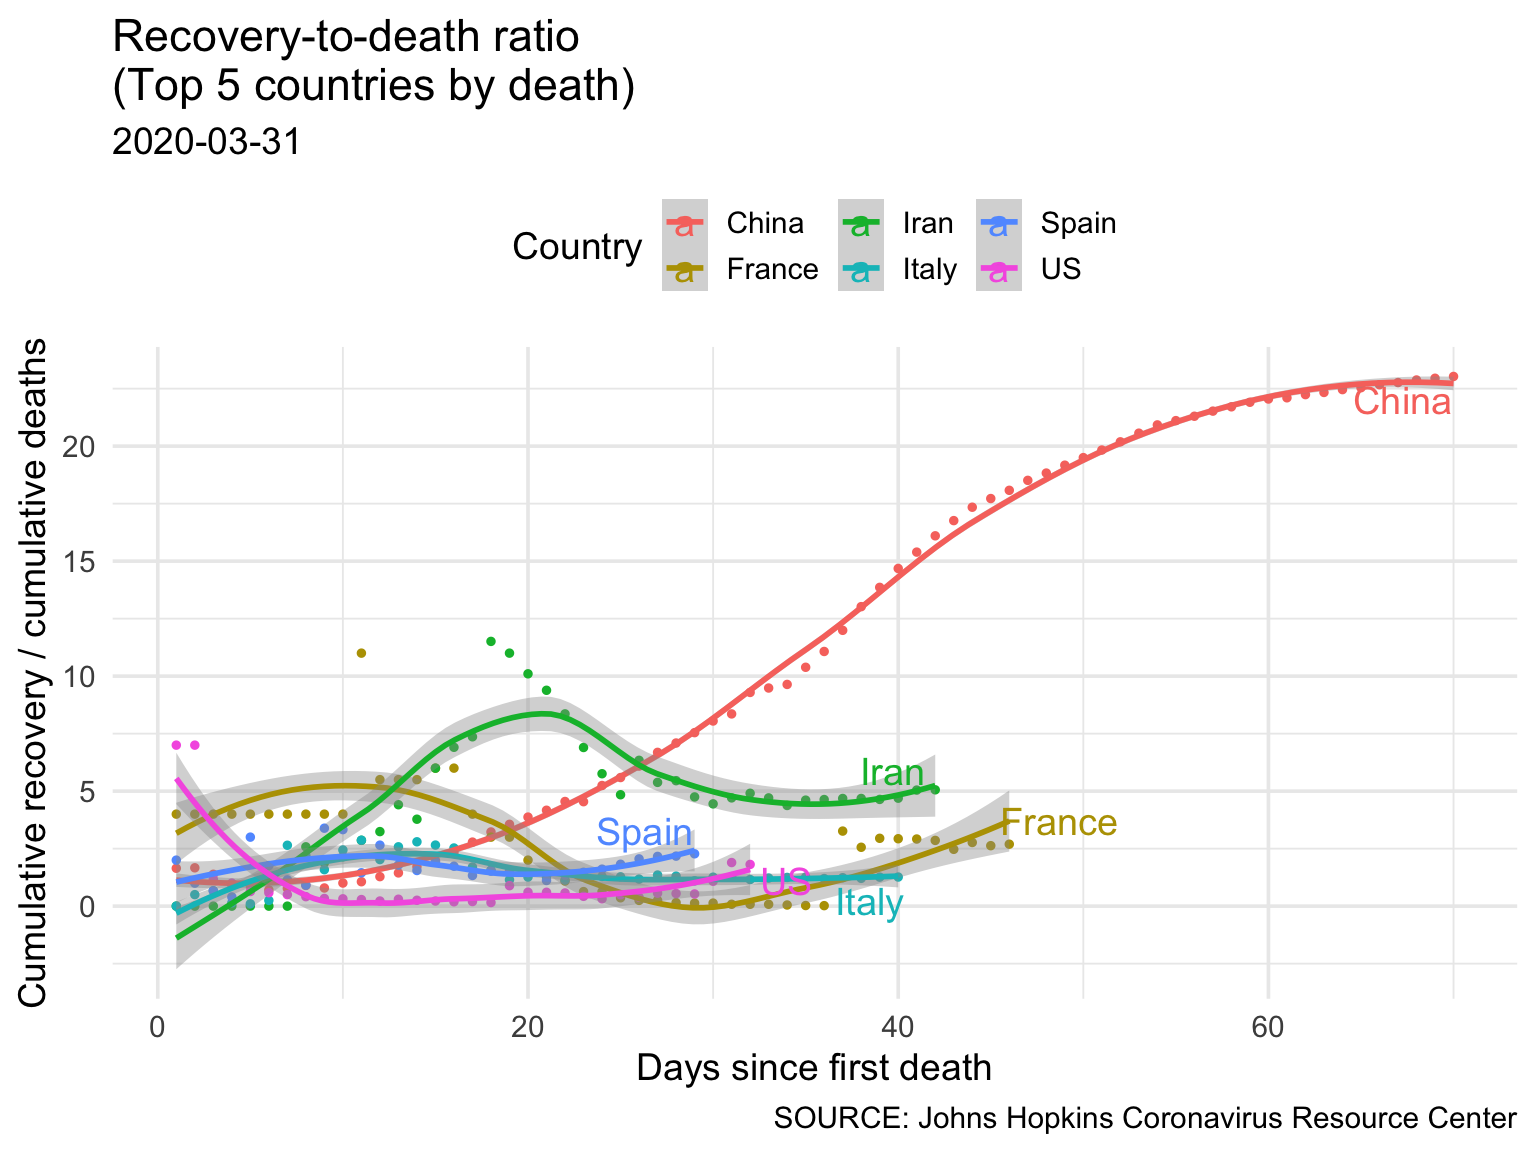
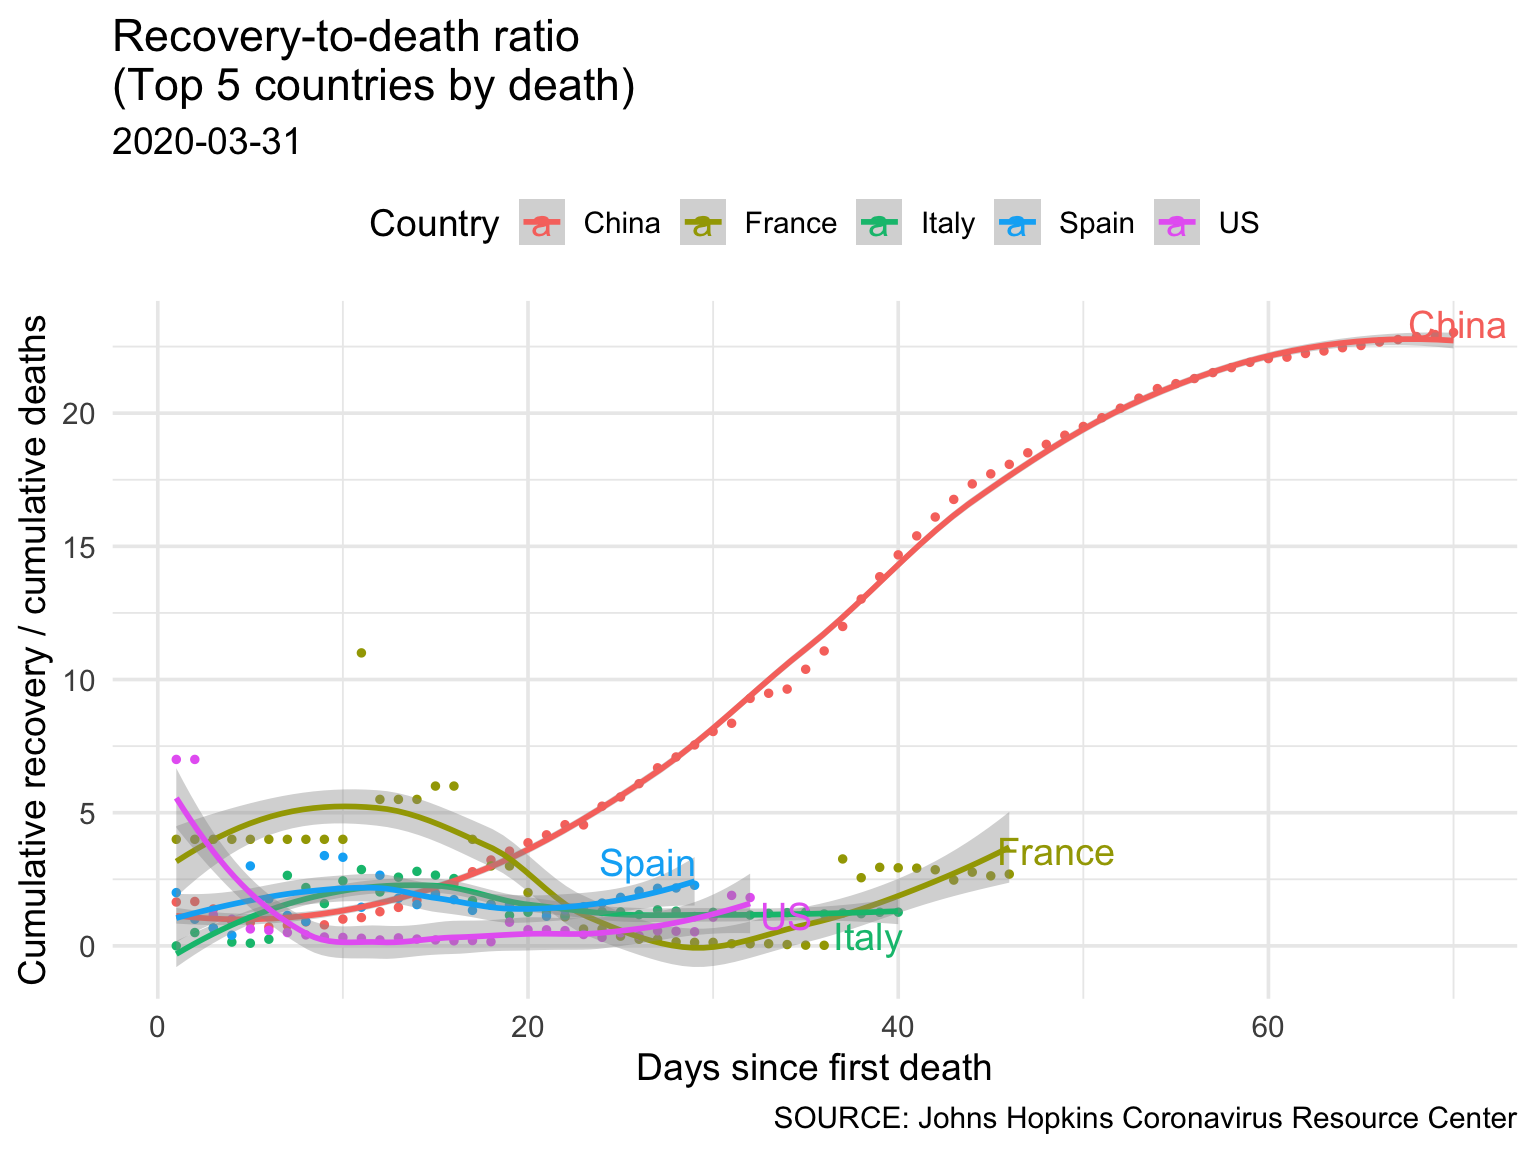
+ recv-to-death south-asia, middle east

Changed region(s): [[0.0938, 0.25, 1.0, 0.8438], [0.25, 0.1562, 0.8125, 0.25], [0.0, 0.2812, 0.0625, 0.875]]

diff --git a/_book/world.html b/_book/world.html
@@ -93,6 +93,8 @@
 <li class="chapter" data-level="1.2" data-path="world.html"><a href="world.html#deaths"><i class="fa fa-check"></i><b>1.2</b> Deaths</a></li>
 <li class="chapter" data-level="1.3" data-path="world.html"><a href="world.html#recovery-death-ratio"><i class="fa fa-check"></i><b>1.3</b> Recovery-to-death ratio</a><ul>
 <li class="chapter" data-level="1.3.1" data-path="world.html"><a href="world.html#recovery-to-death-ratio-including-china"><i class="fa fa-check"></i><b>1.3.1</b> Recovery-to-death ratio (including China)</a></li>
+<li class="chapter" data-level="1.3.2" data-path="world.html"><a href="world.html#recovery-to-death-ratio-south-asia"><i class="fa fa-check"></i><b>1.3.2</b> Recovery-to-death ratio (South Asia)</a></li>
+<li class="chapter" data-level="1.3.3" data-path="world.html"><a href="world.html#recovery-to-death-ratio-middle-east"><i class="fa fa-check"></i><b>1.3.3</b> Recovery-to-death ratio (Middle East)</a></li>
 </ul></li>
 <li class="chapter" data-level="1.4" data-path="world.html"><a href="world.html#perc-change-top6"><i class="fa fa-check"></i><b>1.4</b> 3-day % changes</a></li>
 </ul></li>
@@ -134,10 +136,10 @@
 <h2><span class="header-section-number">1.1</span> Confirmed Cases</h2>
 <p><strong>Report last updated:</strong> 2020-04-01</p>
 <p><strong>Data last refreshed:</strong> : 2020-03-31</p>
-<p><img src="covid19_files/figure-html/unnamed-chunk-2-1.png" width="768" /></p>
+<p><img src="covid19_files/figure-html/unnamed-chunk-3-1.png" width="768" /></p>
 <table class="table" style="margin-left: auto; margin-right: auto;">
 <caption>
-<span id="tab:unnamed-chunk-3">Table 1.1: </span>Top 10 countries by confirmed cases as of 2020-03-31
+<span id="tab:unnamed-chunk-4">Table 1.1: </span>Top 10 countries by confirmed cases as of 2020-03-31
 </caption>
 <thead>
 <tr>
@@ -243,10 +245,10 @@ Bangladesh
 </div>
 <div id="deaths" class="section level2">
 <h2><span class="header-section-number">1.2</span> Deaths</h2>
-<p><img src="covid19_files/figure-html/unnamed-chunk-5-1.png" width="768" /></p>
+<p><img src="covid19_files/figure-html/unnamed-chunk-6-1.png" width="768" /></p>
 <table class="table" style="margin-left: auto; margin-right: auto;">
 <caption>
-<span id="tab:unnamed-chunk-6">Table 1.2: </span>Top 10 countries by total deathsas of 2020-03-31
+<span id="tab:unnamed-chunk-7">Table 1.2: </span>Top 10 countries by total deathsas of 2020-03-31
 </caption>
 <thead>
 <tr>
@@ -352,20 +354,28 @@ Bangladesh
 </div>
 <div id="recovery-death-ratio" class="section level2">
 <h2><span class="header-section-number">1.3</span> Recovery-to-death ratio</h2>
-<p><img src="covid19_files/figure-html/recovery-to-death-ratio-by-country-1.png" width="768" /></p>
-<div id="recovery-to-death-ratio-including-china" class="section level3">
-<h3><span class="header-section-number">1.3.1</span> Recovery-to-death ratio (including China)</h3>
-<p><img src="covid19_files/figure-html/recovery-to-death-ratio-by-country-china-1.png" width="768" /></p>
 <p>The recovery to deaths ratio (RDR) is calculated as</p>
 <p><span class="math display">\[
 RDR = \frac{\# Cumulative \,\, daily \,\, recovered}{\# Cumulative \,\, daily \,\, deaths}
 \]</span></p>
 <p><strong>How to interpret</strong>: The ratio of cumulative number of patients recovered divided by the cumulative number of deaths over time can tell the proportion of people recovering compared to dying. An upward trend may indicate more recovery than deaths.</p>
+<p><img src="covid19_files/figure-html/recovery-to-death-ratio-by-country-1.png" width="768" /></p>
+<div id="recovery-to-death-ratio-including-china" class="section level3">
+<h3><span class="header-section-number">1.3.1</span> Recovery-to-death ratio (including China)</h3>
+<p><img src="covid19_files/figure-html/recovery-to-death-ratio-by-country-china-1.png" width="768" /></p>
+</div>
+<div id="recovery-to-death-ratio-south-asia" class="section level3">
+<h3><span class="header-section-number">1.3.2</span> Recovery-to-death ratio (South Asia)</h3>
+<p><img src="covid19_files/figure-html/recovery-to-death-ratio-south-asia-1.png" width="768" /></p>
+</div>
+<div id="recovery-to-death-ratio-middle-east" class="section level3">
+<h3><span class="header-section-number">1.3.3</span> Recovery-to-death ratio (Middle East)</h3>
+<p><img src="covid19_files/figure-html/recovery-to-death-ratio-middle-east-1.png" width="768" /></p>
 </div>
 </div>
 <div id="perc-change-top6" class="section level2">
 <h2><span class="header-section-number">1.4</span> 3-day % changes</h2>
-<p><img src="covid19_files/figure-html/unnamed-chunk-9-1.png" width="768" /></p>
+<p><img src="covid19_files/figure-html/unnamed-chunk-10-1.png" width="768" /></p>
 <p>The percent change is calculated as</p>
 <p><span class="math display">\[
 PC = \frac{New - Original}{Original} * 100

diff --git a/_book/bangladesh.html b/_book/bangladesh.html
@@ -91,7 +91,11 @@
 <li class="chapter" data-level="1" data-path="world.html"><a href="world.html"><i class="fa fa-check"></i><b>1</b> World</a><ul>
 <li class="chapter" data-level="1.1" data-path="world.html"><a href="world.html#confirmed-cases"><i class="fa fa-check"></i><b>1.1</b> Confirmed Cases</a></li>
 <li class="chapter" data-level="1.2" data-path="world.html"><a href="world.html#deaths"><i class="fa fa-check"></i><b>1.2</b> Deaths</a></li>
-<li class="chapter" data-level="1.3" data-path="world.html"><a href="world.html#recovery-death-ratio"><i class="fa fa-check"></i><b>1.3</b> Recovery-to-death ratio</a></li>
+<li class="chapter" data-level="1.3" data-path="world.html"><a href="world.html#recovery-death-ratio"><i class="fa fa-check"></i><b>1.3</b> Recovery-to-death ratio</a><ul>
+<li class="chapter" data-level="1.3.1" data-path="world.html"><a href="world.html#recovery-to-death-ratio-including-china"><i class="fa fa-check"></i><b>1.3.1</b> Recovery-to-death ratio (including China)</a></li>
+<li class="chapter" data-level="1.3.2" data-path="world.html"><a href="world.html#recovery-to-death-ratio-south-asia"><i class="fa fa-check"></i><b>1.3.2</b> Recovery-to-death ratio (South Asia)</a></li>
+<li class="chapter" data-level="1.3.3" data-path="world.html"><a href="world.html#recovery-to-death-ratio-middle-east"><i class="fa fa-check"></i><b>1.3.3</b> Recovery-to-death ratio (Middle East)</a></li>
+</ul></li>
 <li class="chapter" data-level="1.4" data-path="world.html"><a href="world.html#perc-change-top6"><i class="fa fa-check"></i><b>1.4</b> 3-day % changes</a></li>
 </ul></li>
 <li class="chapter" data-level="2" data-path="usa.html"><a href="usa.html"><i class="fa fa-check"></i><b>2</b> USA</a><ul>
@@ -160,7 +164,7 @@ Total Tests
 6
 </td>
 <td style="text-align:right;">
-61
+64
 </td>
 <td style="text-align:right;">
 1635
@@ -171,13 +175,6 @@ Total Tests
 </div>
 <div id="bangladesh-in-south-asia" class="section level2">
 <h2><span class="header-section-number">3.3</span> Bangladesh in South Asia</h2>
-<pre><code>## Parsed with column specification:
-## cols(
-##   .default = col_double(),
-##   `Province/State` = col_character(),
-##   `Country/Region` = col_character()
-## )</code></pre>
-<pre><code>## See spec(...) for full column specifications.</code></pre>
 <p><img src="covid19_files/figure-html/covid19-death-south-asia-1.png" width="672" /></p>
 <table class="table" style="margin-left: auto; margin-right: auto;">
 <caption>

diff --git a/_book/usa.html b/_book/usa.html
@@ -91,7 +91,11 @@
 <li class="chapter" data-level="1" data-path="world.html"><a href="world.html"><i class="fa fa-check"></i><b>1</b> World</a><ul>
 <li class="chapter" data-level="1.1" data-path="world.html"><a href="world.html#confirmed-cases"><i class="fa fa-check"></i><b>1.1</b> Confirmed Cases</a></li>
 <li class="chapter" data-level="1.2" data-path="world.html"><a href="world.html#deaths"><i class="fa fa-check"></i><b>1.2</b> Deaths</a></li>
-<li class="chapter" data-level="1.3" data-path="world.html"><a href="world.html#recovery-death-ratio"><i class="fa fa-check"></i><b>1.3</b> Recovery-to-death ratio</a></li>
+<li class="chapter" data-level="1.3" data-path="world.html"><a href="world.html#recovery-death-ratio"><i class="fa fa-check"></i><b>1.3</b> Recovery-to-death ratio</a><ul>
+<li class="chapter" data-level="1.3.1" data-path="world.html"><a href="world.html#recovery-to-death-ratio-including-china"><i class="fa fa-check"></i><b>1.3.1</b> Recovery-to-death ratio (including China)</a></li>
+<li class="chapter" data-level="1.3.2" data-path="world.html"><a href="world.html#recovery-to-death-ratio-south-asia"><i class="fa fa-check"></i><b>1.3.2</b> Recovery-to-death ratio (South Asia)</a></li>
+<li class="chapter" data-level="1.3.3" data-path="world.html"><a href="world.html#recovery-to-death-ratio-middle-east"><i class="fa fa-check"></i><b>1.3.3</b> Recovery-to-death ratio (Middle East)</a></li>
+</ul></li>
 <li class="chapter" data-level="1.4" data-path="world.html"><a href="world.html#perc-change-top6"><i class="fa fa-check"></i><b>1.4</b> 3-day % changes</a></li>
 </ul></li>
 <li class="chapter" data-level="2" data-path="usa.html"><a href="usa.html"><i class="fa fa-check"></i><b>2</b> USA</a><ul>
@@ -134,7 +138,7 @@
 <div id="confirmed-cases-1" class="section level2">
 <h2><span class="header-section-number">2.2</span> Confirmed Cases</h2>
 <p><strong>Report last updated:</strong> 2020-04-01</p>
-<p><strong>Data last refreshed:</strong> : 2020-03-30</p>
+<p><strong>Data last refreshed:</strong> : 2020-03-31</p>
 <p><img src="covid19_files/figure-html/unnamed-chunk-13-1.png" width="768" /></p>
 </div>
 <div id="deaths-1" class="section level2">

diff --git a/_book/index.html b/_book/index.html
@@ -91,7 +91,11 @@
 <li class="chapter" data-level="1" data-path="world.html"><a href="world.html"><i class="fa fa-check"></i><b>1</b> World</a><ul>
 <li class="chapter" data-level="1.1" data-path="world.html"><a href="world.html#confirmed-cases"><i class="fa fa-check"></i><b>1.1</b> Confirmed Cases</a></li>
 <li class="chapter" data-level="1.2" data-path="world.html"><a href="world.html#deaths"><i class="fa fa-check"></i><b>1.2</b> Deaths</a></li>
-<li class="chapter" data-level="1.3" data-path="world.html"><a href="world.html#recovery-death-ratio"><i class="fa fa-check"></i><b>1.3</b> Recovery-to-death ratio</a></li>
+<li class="chapter" data-level="1.3" data-path="world.html"><a href="world.html#recovery-death-ratio"><i class="fa fa-check"></i><b>1.3</b> Recovery-to-death ratio</a><ul>
+<li class="chapter" data-level="1.3.1" data-path="world.html"><a href="world.html#recovery-to-death-ratio-including-china"><i class="fa fa-check"></i><b>1.3.1</b> Recovery-to-death ratio (including China)</a></li>
+<li class="chapter" data-level="1.3.2" data-path="world.html"><a href="world.html#recovery-to-death-ratio-south-asia"><i class="fa fa-check"></i><b>1.3.2</b> Recovery-to-death ratio (South Asia)</a></li>
+<li class="chapter" data-level="1.3.3" data-path="world.html"><a href="world.html#recovery-to-death-ratio-middle-east"><i class="fa fa-check"></i><b>1.3.3</b> Recovery-to-death ratio (Middle East)</a></li>
+</ul></li>
 <li class="chapter" data-level="1.4" data-path="world.html"><a href="world.html#perc-change-top6"><i class="fa fa-check"></i><b>1.4</b> 3-day % changes</a></li>
 </ul></li>
 <li class="chapter" data-level="2" data-path="usa.html"><a href="usa.html"><i class="fa fa-check"></i><b>2</b> USA</a><ul>

diff --git a/_book/references.html b/_book/references.html
@@ -91,7 +91,11 @@
 <li class="chapter" data-level="1" data-path="world.html"><a href="world.html"><i class="fa fa-check"></i><b>1</b> World</a><ul>
 <li class="chapter" data-level="1.1" data-path="world.html"><a href="world.html#confirmed-cases"><i class="fa fa-check"></i><b>1.1</b> Confirmed Cases</a></li>
 <li class="chapter" data-level="1.2" data-path="world.html"><a href="world.html#deaths"><i class="fa fa-check"></i><b>1.2</b> Deaths</a></li>
-<li class="chapter" data-level="1.3" data-path="world.html"><a href="world.html#recovery-death-ratio"><i class="fa fa-check"></i><b>1.3</b> Recovery-to-death ratio</a></li>
+<li class="chapter" data-level="1.3" data-path="world.html"><a href="world.html#recovery-death-ratio"><i class="fa fa-check"></i><b>1.3</b> Recovery-to-death ratio</a><ul>
+<li class="chapter" data-level="1.3.1" data-path="world.html"><a href="world.html#recovery-to-death-ratio-including-china"><i class="fa fa-check"></i><b>1.3.1</b> Recovery-to-death ratio (including China)</a></li>
+<li class="chapter" data-level="1.3.2" data-path="world.html"><a href="world.html#recovery-to-death-ratio-south-asia"><i class="fa fa-check"></i><b>1.3.2</b> Recovery-to-death ratio (South Asia)</a></li>
+<li class="chapter" data-level="1.3.3" data-path="world.html"><a href="world.html#recovery-to-death-ratio-middle-east"><i class="fa fa-check"></i><b>1.3.3</b> Recovery-to-death ratio (Middle East)</a></li>
+</ul></li>
 <li class="chapter" data-level="1.4" data-path="world.html"><a href="world.html#perc-change-top6"><i class="fa fa-check"></i><b>1.4</b> 3-day % changes</a></li>
 </ul></li>
 <li class="chapter" data-level="2" data-path="usa.html"><a href="usa.html"><i class="fa fa-check"></i><b>2</b> USA</a><ul>

diff --git a/_book/scipubs.html b/_book/scipubs.html
@@ -91,7 +91,11 @@
 <li class="chapter" data-level="1" data-path="world.html"><a href="world.html"><i class="fa fa-check"></i><b>1</b> World</a><ul>
 <li class="chapter" data-level="1.1" data-path="world.html"><a href="world.html#confirmed-cases"><i class="fa fa-check"></i><b>1.1</b> Confirmed Cases</a></li>
 <li class="chapter" data-level="1.2" data-path="world.html"><a href="world.html#deaths"><i class="fa fa-check"></i><b>1.2</b> Deaths</a></li>
-<li class="chapter" data-level="1.3" data-path="world.html"><a href="world.html#recovery-death-ratio"><i class="fa fa-check"></i><b>1.3</b> Recovery-to-death ratio</a></li>
+<li class="chapter" data-level="1.3" data-path="world.html"><a href="world.html#recovery-death-ratio"><i class="fa fa-check"></i><b>1.3</b> Recovery-to-death ratio</a><ul>
+<li class="chapter" data-level="1.3.1" data-path="world.html"><a href="world.html#recovery-to-death-ratio-including-china"><i class="fa fa-check"></i><b>1.3.1</b> Recovery-to-death ratio (including China)</a></li>
+<li class="chapter" data-level="1.3.2" data-path="world.html"><a href="world.html#recovery-to-death-ratio-south-asia"><i class="fa fa-check"></i><b>1.3.2</b> Recovery-to-death ratio (South Asia)</a></li>
+<li class="chapter" data-level="1.3.3" data-path="world.html"><a href="world.html#recovery-to-death-ratio-middle-east"><i class="fa fa-check"></i><b>1.3.3</b> Recovery-to-death ratio (Middle East)</a></li>
+</ul></li>
 <li class="chapter" data-level="1.4" data-path="world.html"><a href="world.html#perc-change-top6"><i class="fa fa-check"></i><b>1.4</b> 3-day % changes</a></li>
 </ul></li>
 <li class="chapter" data-level="2" data-path="usa.html"><a href="usa.html"><i class="fa fa-check"></i><b>2</b> USA</a><ul>
